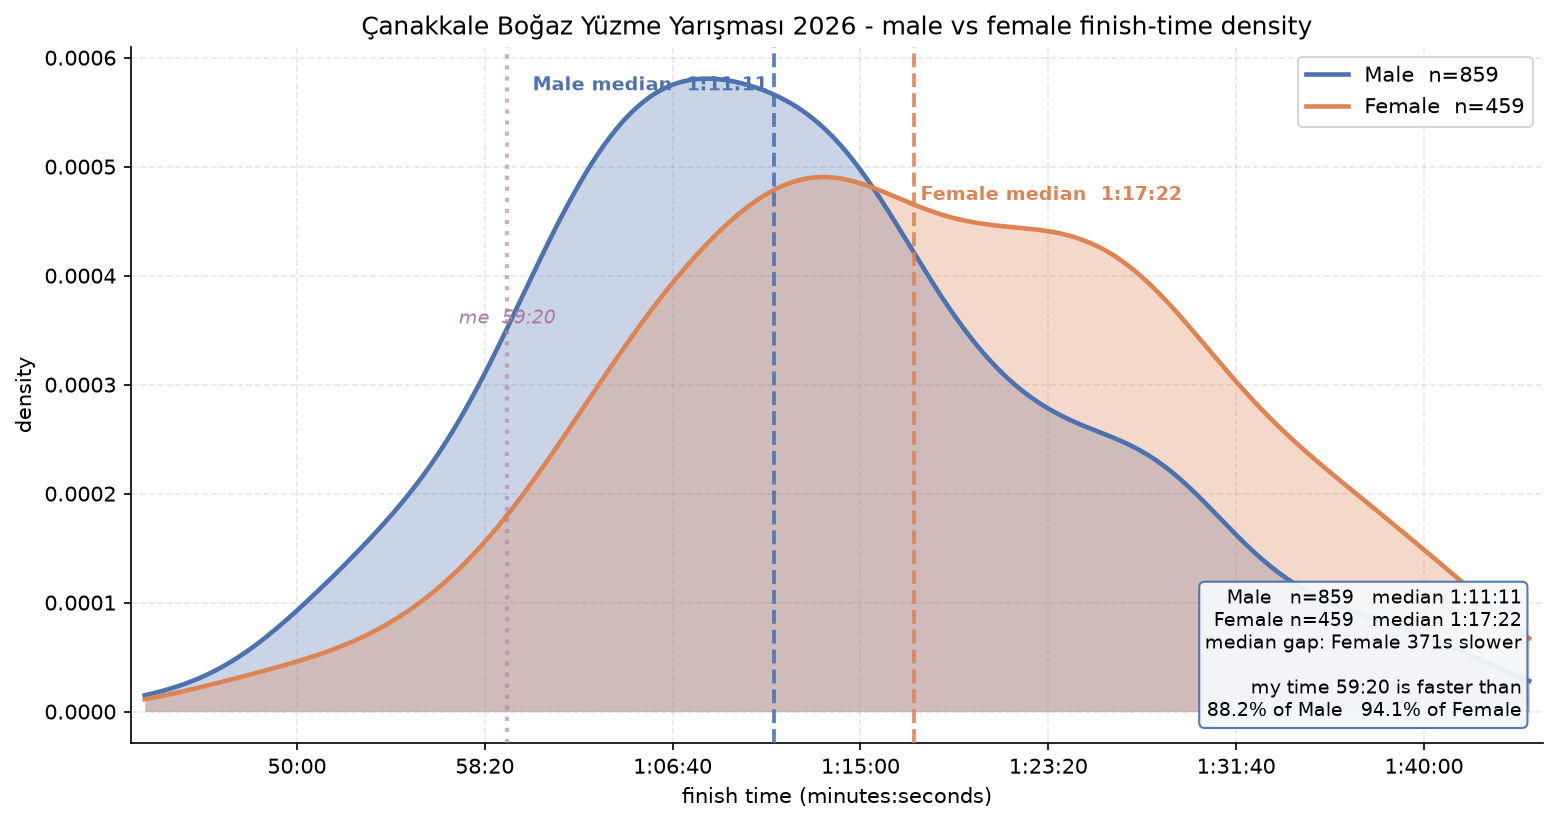
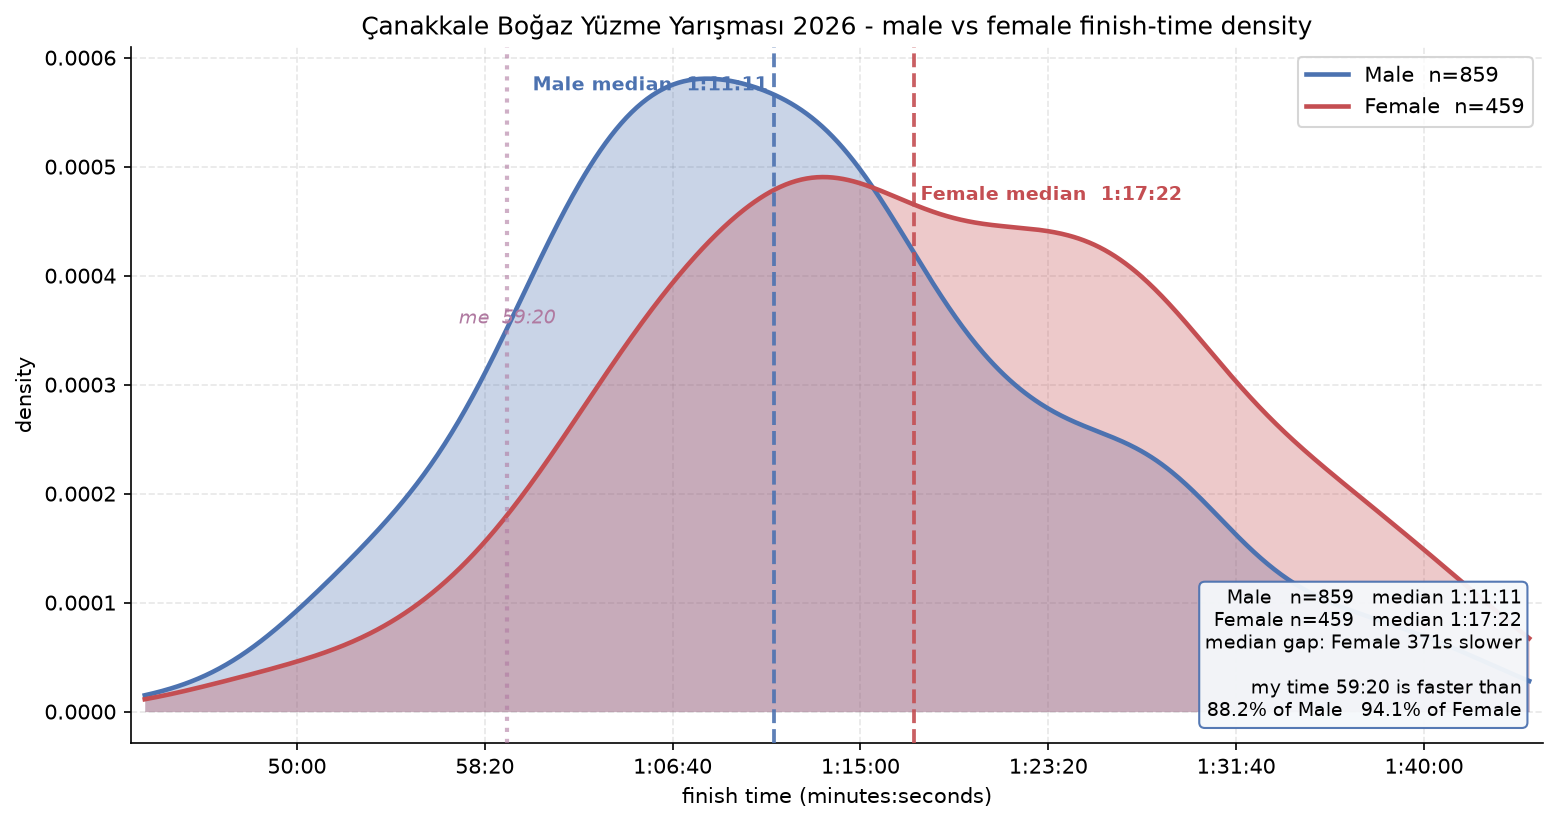
fix: update chart colors

diff --git a/2026/istanbul/visualize_results.py b/2026/istanbul/visualize_results.py
@@ -114,15 +114,7 @@ FLAG_HEIGHT_PT = 20.0
 FLAG_GAP_PT = 8.0
 _FLAG_CACHE = {}
 
-
-def _flag_image(nation: str, cache_dir=None):
-    """Return an RGBA ndarray of a 2-letter nation's flag, or None on failure.
-
-    Flags are fetched once and cached in memory and on disk (as PNG files in
-    ``cache_dir``) so later runs do not re-download them.  Returns ``None`` for
-    pseudo codes such as ``N/A`` or when the download fails, letting callers
-    fall back to a plain text label.
-    """
+def _flag_image(nation, cache_dir=None):
     code = (nation or "").strip().upper()
     if not code or code == "N/A":
         return None
@@ -141,7 +133,6 @@ def _flag_image(nation: str, cache_dir=None):
             return arr
         except Exception as exc:
             logger.debug("flag cache read failed for %s: %s", code, exc)
-
     try:
         resp = requests.get(f"{FLAG_BASE_URL}/{code}.gif", timeout=10)
         resp.raise_for_status()
@@ -163,7 +154,6 @@ def _flag_image(nation: str, cache_dir=None):
 
     _FLAG_CACHE[code] = arr
     return arr
-
 
 def view1_distribution(df, cfg, user, out_dir, show):
     times = df["swim_seconds"].to_numpy(dtype=float)
@@ -246,7 +236,7 @@ def view2_age_gender(df, cfg, user, out_dir, show):
     else:
         hl, hl_label, hl_note = None, "", ""
 
-    male_c, female_c, hl_c = "#4C72B0", "#DD8452", "#C44E52"
+    male_c, female_c, hl_c = "#4C72B0", "#C44E52", "#55A868"
     fig, ax = plt.subplots(figsize=(12.5, 6.4))
     ax.yaxis.set_major_formatter(FuncFormatter(_fmt_time_ticks))
     for i, band in enumerate(bands):
@@ -256,8 +246,7 @@ def view2_age_gender(df, cfg, user, out_dir, show):
                 continue
             pos = i - 0.17 if g == "M" else i + 0.17
             is_hl = bool(hl) and (g == hl[0] and band == hl[1])
-            parts = _draw_violin(ax, grp.to_numpy(dtype=float), pos,
-                                 hl_c if is_hl else color, width=0.30)
+            parts = _draw_violin(ax, grp.to_numpy(dtype=float), pos, hl_c if is_hl else color, width=0.30)
             if parts is not None and is_hl:
                 parts["bodies"][0].set_edgecolor("#000000")
                 parts["bodies"][0].set_linewidth(2.2)
@@ -280,8 +269,8 @@ def view2_age_gender(df, cfg, user, out_dir, show):
     if hl_note:
         ax.text(0.985, 0.03, hl_note, transform=ax.transAxes, ha="right",
                 va="bottom", fontsize=9,
-                bbox=dict(boxstyle="round", facecolor="#F5E8E8",
-                          edgecolor="#C44E52", alpha=0.95))
+                bbox=dict(boxstyle="round", facecolor="#EDF7ED",
+                          edgecolor="#55A868", alpha=0.95))
     ax.legend(handles=handles, loc="upper left", frameon=True)
     ax.set_ylim(bottom=0)
     fig.tight_layout()
@@ -394,7 +383,7 @@ def view4_nations(df, cfg, out_dir, show):
     order = meaningful.sort_values("count", ascending=True)["nation"].tolist()
     m2 = meaningful.set_index("nation").loc[order]
 
-    male_c, female_c = "#4C72B0", "#DD8452"
+    male_c, female_c = "#4C72B0", "#C44E52"
     fig, (ax1, ax2) = plt.subplots(1, 2, figsize=(14.5, 0.42 * len(order) + 2.6))
     for axx in (ax1, ax2):
         axx.spines["top"].set_visible(False)
@@ -463,7 +452,7 @@ def view4_nations(df, cfg, out_dir, show):
 
 def view5_gender_kde(df, cfg, user, out_dir, show):
     x = np.linspace(df["swim_seconds"].min(), df["swim_seconds"].max(), 800)
-    male_c, female_c, my_c = "#4C72B0", "#DD8452", "#B07AA1"
+    male_c, female_c, my_c = "#4C72B0", "#C44E52", "#B07AA1"
     groups = []
     for lab, g, color in (("Male", "M", male_c), ("Female", "F", female_c)):
         t = df.loc[df["gender"] == g, "swim_seconds"].to_numpy(dtype=float)

diff --git a/2026/canakkale/visualize_results.py b/2026/canakkale/visualize_results.py
@@ -124,15 +124,7 @@ FLAG_HEIGHT_PT = 20.0
 FLAG_GAP_PT = 8.0
 _FLAG_CACHE = {}
 
-
-def _flag_image(nation: str, cache_dir=None):
-    """Return an RGBA ndarray of a 2-letter nation's flag, or None on failure.
-
-    Flags are fetched once and cached in memory and on disk (as PNG files in
-    ``cache_dir``) so later runs do not re-download them.  Returns ``None`` for
-    pseudo codes such as ``N/A`` or when the download fails, letting callers
-    fall back to a plain text label.
-    """
+def _flag_image(nation, cache_dir=None):
     code = (nation or "").strip().upper()
     if not code or code == "N/A":
         return None
@@ -151,7 +143,6 @@ def _flag_image(nation: str, cache_dir=None):
             return arr
         except Exception as exc:
             logger.debug("flag cache read failed for %s: %s", code, exc)
-
     try:
         resp = requests.get(f"{FLAG_BASE_URL}/{code}.gif", timeout=10)
         resp.raise_for_status()
@@ -173,7 +164,6 @@ def _flag_image(nation: str, cache_dir=None):
 
     _FLAG_CACHE[code] = arr
     return arr
-
 
 def view1_distribution(df, cfg, user, out_dir, show):
     times = df["swim_seconds"].to_numpy(dtype=float)
@@ -256,7 +246,7 @@ def view2_age_gender(df, cfg, user, out_dir, show):
     else:
         hl, hl_label, hl_note = None, "", ""
 
-    male_c, female_c, hl_c = "#4C72B0", "#DD8452", "#C44E52"
+    male_c, female_c, hl_c = "#4C72B0", "#C44E52", "#55A868"
     fig, ax = plt.subplots(figsize=(12.5, 6.4))
     ax.yaxis.set_major_formatter(FuncFormatter(_fmt_time_ticks))
     for i, band in enumerate(bands):
@@ -286,8 +276,8 @@ def view2_age_gender(df, cfg, user, out_dir, show):
     if hl_note:
         ax.text(0.985, 0.03, hl_note, transform=ax.transAxes, ha="right",
                 va="bottom", fontsize=9,
-                bbox=dict(boxstyle="round", facecolor="#F5E8E8",
-                          edgecolor="#C44E52", alpha=0.95))
+                bbox=dict(boxstyle="round", facecolor="#EDF7ED",
+                          edgecolor="#55A868", alpha=0.95))
     ax.legend(handles=handles, loc="upper left", frameon=True)
     ax.set_ylim(bottom=0)
     fig.tight_layout()
@@ -415,7 +405,6 @@ def view4_nations(df, cfg, out_dir, show):
     ax1.set_title("Participation")
     ax1.tick_params(axis="y", labelsize=9, length=0)
 
-    # Replace nation-code tick labels with country flags (text fallback).
     ax1.set_yticks(range(len(order)))
     ax1.set_yticklabels([""] * len(order))
     for i, nation in enumerate(order):
@@ -476,7 +465,7 @@ def view4_nations(df, cfg, out_dir, show):
 
 def view5_gender_kde(df, cfg, user, out_dir, show):
     x = np.linspace(df["swim_seconds"].min(), df["swim_seconds"].max(), 800)
-    male_c, female_c, my_c = "#4C72B0", "#DD8452", "#B07AA1"
+    male_c, female_c, my_c = "#4C72B0", "#C44E52", "#B07AA1"
     groups = []
     for lab, g, color in (("Male", "M", male_c), ("Female", "F", female_c)):
         t = df.loc[df["gender"] == g, "swim_seconds"].to_numpy(dtype=float)

diff --git a/overall_position_vs_time.py b/overall_position_vs_time.py
@@ -117,14 +117,10 @@ def plot(df, show):
     ax.set_xlabel("Overall Position")
     ax.set_ylabel("Finish Time (min:sec)")
     ax.yaxis.set_major_formatter(FuncFormatter(fmt_minutes))
-    ax.set_title(
-        "Overall Position vs Time by Sex\nİstanbul Boğaziçi 2014–2026",
-        pad=12,
-    )
+    ax.set_title("Overall Position vs Time by Sex\nİstanbul Boğaziçi 2014–2026", pad=12)
     ax.set_axisbelow(True)
     ax.margins(x=0.01, y=0.02)
 
-    # Tek lejant: cinsiyet (sol üst).
     ax.legend(title="Sex", frameon=True, loc="upper left")
 
     fig.tight_layout()
